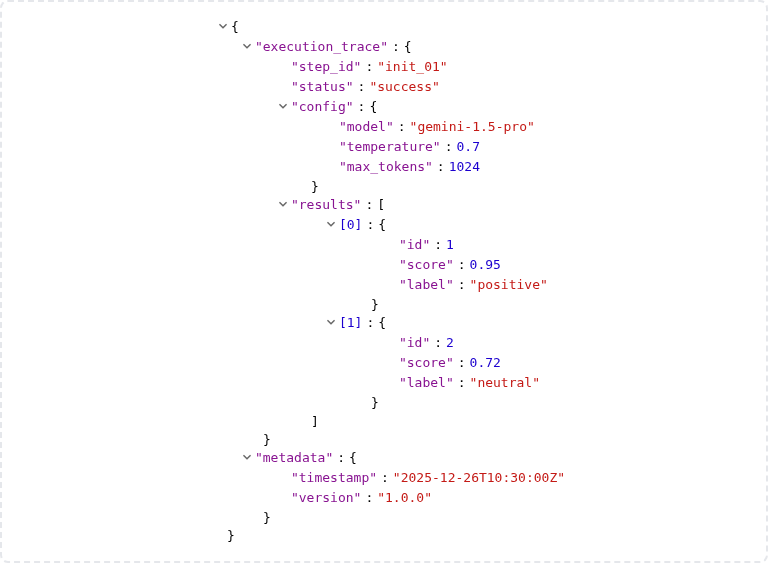
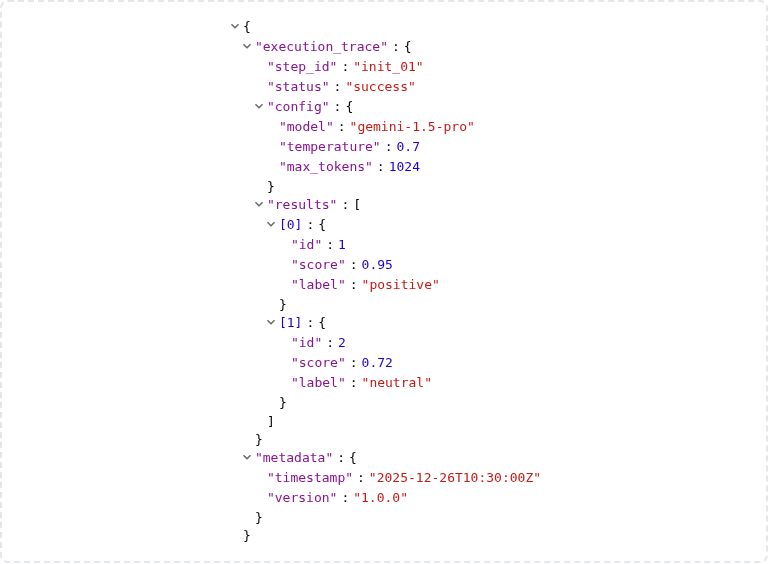
fix: proper nested DOM structure for DevToolsTree indentation
- Refactor to use CSS margin-left on children container instead of
  pixel calculations
- Closing brace is now a sibling of children container, ensuring
  correct alignment with opening brace
- Remove depth parameter from _render_node (indentation handled by
  CSS nesting)
- Rename methods for clarity:
  - _render_container_preview → _render_opening_brace
  - _render_children → _render_children_and_close

diff --git a/adk_agent_sim/ui/components/devtools_tree.py b/adk_agent_sim/ui/components/devtools_tree.py
@@ -108,8 +108,6 @@ class DevToolsTree:
         value=self.data,
         key=None,
         path="root",
-        depth=0,
-        is_last=True,
       )
 
   def _render_node(
@@ -117,8 +115,6 @@ class DevToolsTree:
     value: Any,
     key: str | int | None,
     path: str,
-    depth: int,
-    is_last: bool,
   ) -> None:
     """Recursively render a tree node.
 
@@ -126,25 +122,13 @@ class DevToolsTree:
       value: The value at this node
       key: The key/index for this node (None for root)
       path: Unique path identifier for state tracking
-      depth: Current nesting depth (0 = root)
-      is_last: Whether this is the last sibling (affects thread lines)
     """
     value_type = _get_value_type(value)
     is_container = value_type in (ValueType.OBJECT, ValueType.ARRAY)
     is_expanded = self.expansion_state.is_expanded(path) if is_container else False
 
-    # Calculate indentation
-    indent_px = depth * int(self._styles["indent_size"].replace("px", ""))
-
-    # Thread line styles - applied to the node container
-    thread_style = self._get_thread_line_style(depth, is_last)
-
-    with (
-      ui.element("div")
-      .classes("devtools-tree-node")
-      .style(f"position: relative; padding-left: {indent_px + 12}px; {thread_style}")
-    ):
-      # Render the node row (toggle + key + value preview)
+    with ui.element("div").classes("devtools-tree-node"):
+      # Render the node row (toggle + key + value/opening brace)
       with (
         ui.element("div")
         .classes("devtools-tree-row")
@@ -164,38 +148,15 @@ class DevToolsTree:
             f"color: {self._styles['bracket_color']}; margin: 0 4px;"
           ).props('innerHTML=": "')
 
-        # Value or container preview
+        # Value or container opening brace
         if is_container:
-          self._render_container_preview(value, value_type, is_expanded)
+          self._render_opening_brace(value, value_type, is_expanded)
         else:
           self._render_primitive(value, value_type)
 
-      # Render children if expanded
+      # Render children and closing brace if expanded container
       if is_container and is_expanded:
-        self._render_children(value, value_type, path, depth)
-
-  def _get_thread_line_style(self, depth: int, is_last: bool) -> str:
-    """Generate CSS for thread lines.
-
-    Args:
-      depth: Current nesting depth
-      is_last: Whether this is the last sibling
-
-    Returns:
-      CSS style string for the thread line
-    """
-    if depth == 0:
-      return ""
-
-    line_color = self._styles["thread_line_color"]
-    indent_px = int(self._styles["indent_size"].replace("px", ""))
-    left_pos = (depth - 1) * indent_px + 8
-
-    # For last child, line only goes to the middle of the row
-    if is_last:
-      return f"--thread-line-left: {left_pos}px; --thread-line-color: {line_color}; "
-
-    return f"--thread-line-left: {left_pos}px; --thread-line-color: {line_color}; "
+        self._render_children_and_close(value, value_type, path)
 
   def _render_toggle(self, path: str, is_expanded: bool) -> None:
     """Render the expand/collapse toggle chevron.
@@ -241,13 +202,13 @@ class DevToolsTree:
       f'innerHTML="{display}"'
     )
 
-  def _render_container_preview(
+  def _render_opening_brace(
     self,
     value: Any,
     value_type: ValueType,
     is_expanded: bool,
   ) -> None:
-    """Render the preview for object/array containers.
+    """Render the opening brace or collapsed preview for containers.
 
     Args:
       value: The container value
@@ -311,51 +272,52 @@ class DevToolsTree:
       f'innerHTML="{display}"'
     )
 
-  def _render_children(
+  def _render_children_and_close(
     self,
     value: Any,
     value_type: ValueType,
     parent_path: str,
-    depth: int,
   ) -> None:
-    """Render child nodes for a container.
+    """Render child nodes and closing brace for a container.
+
+    Uses CSS margin-left on the children container for indentation.
+    The closing brace is a sibling of the children container,
+    ensuring it aligns with the opening brace.
 
     Args:
       value: The container (dict or list)
       value_type: OBJECT or ARRAY
       parent_path: Path of the parent node
-      depth: Current nesting depth
     """
     bracket_color = self._styles["bracket_color"]
+    indent = self._styles["indent_size"]
 
-    with ui.element("div").classes("devtools-tree-children"):
+    # Children container - indented via margin-left
+    with (
+      ui.element("div")
+      .classes("devtools-tree-children")
+      .style(f"margin-left: {indent};")
+    ):
       if value_type == ValueType.OBJECT:
         items = list(value.items())
-        for i, (child_key, child_value) in enumerate(items):
+        for child_key, child_value in items:
           child_path = f"{parent_path}.{child_key}"
-          is_last = i == len(items) - 1
           self._render_node(
             value=child_value,
             key=child_key,
             path=child_path,
-            depth=depth + 1,
-            is_last=is_last,
           )
       else:  # ARRAY
         for i, child_value in enumerate(value):
           child_path = f"{parent_path}[{i}]"
-          is_last = i == len(value) - 1
           self._render_node(
             value=child_value,
             key=i,
             path=child_path,
-            depth=depth + 1,
-            is_last=is_last,
           )
 
-    # Closing bracket - align with the opening bracket (same indent as parent)
-    indent_px = depth * int(self._styles["indent_size"].replace("px", ""))
+    # Closing bracket - sibling of children, same level as opening brace
     closing = "}" if value_type == ValueType.OBJECT else "]"
-    ui.element("div").style(
-      f"padding-left: {indent_px + 12}px; color: {bracket_color};"
-    ).props(f'innerHTML="{closing}"')
+    ui.element("div").style(f"color: {bracket_color}; padding-left: 16px;").props(
+      f'innerHTML="{closing}"'
+    )
